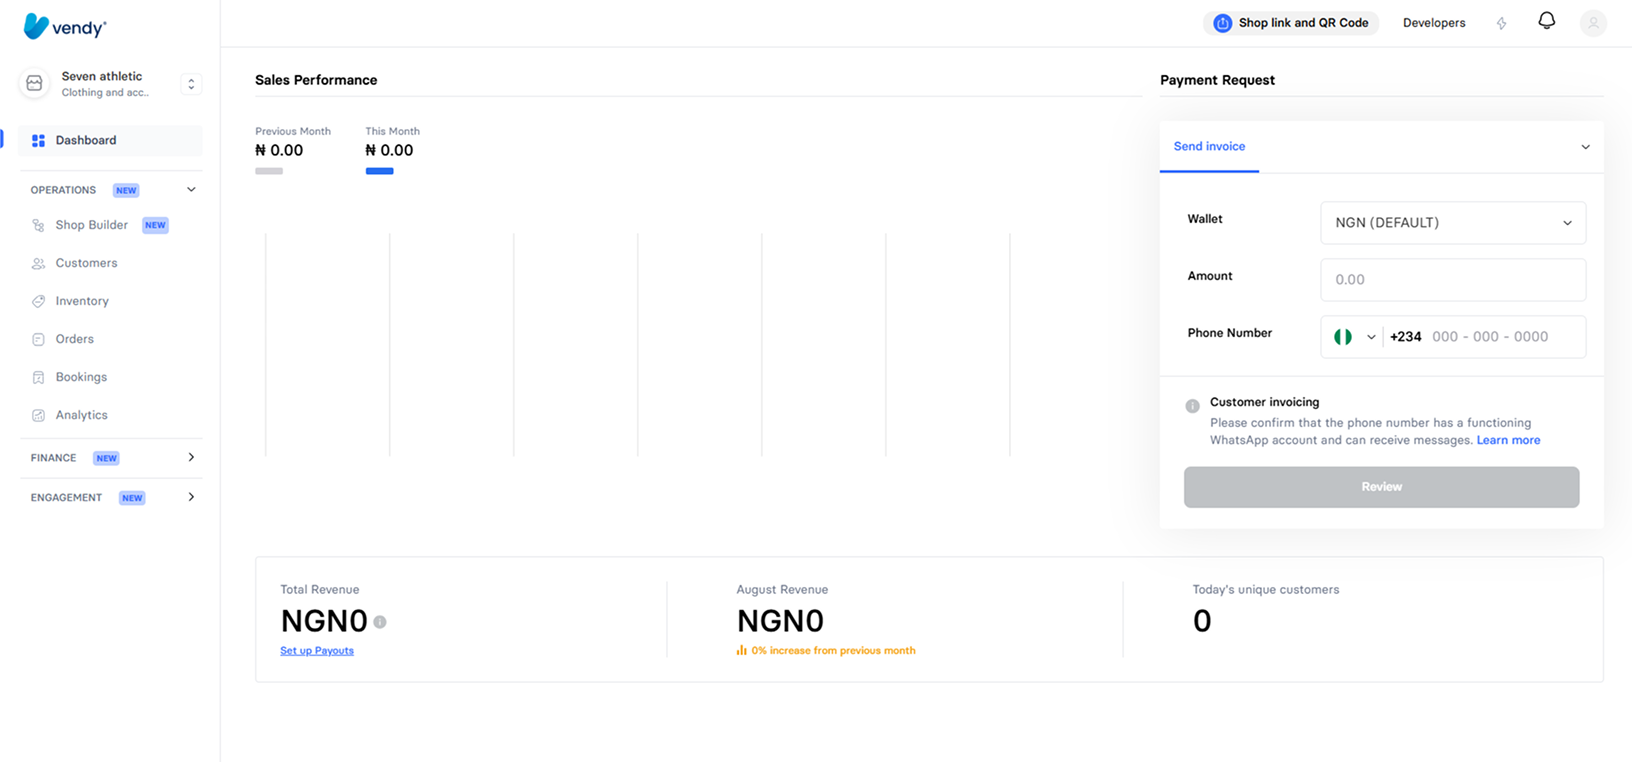
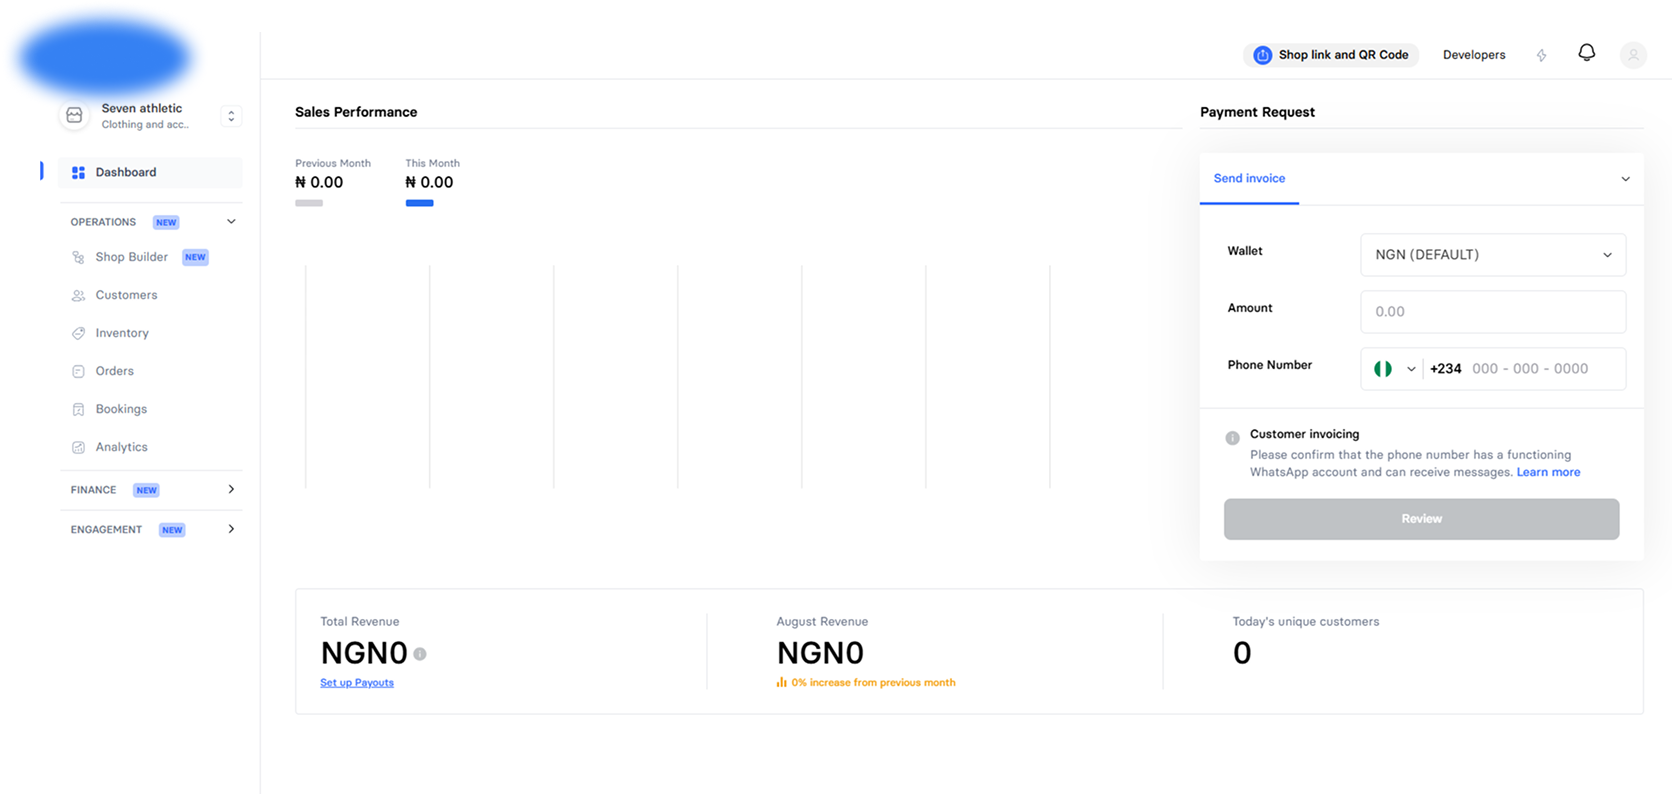
Add click-to-view lightbox and privacy disclaimer to auth audit
- All auth-audit images are clickable, opening in a subtle overlay with a
  close button; keyboard-accessible and Esc/backdrop to close
- Add note that the company logo is blurred in every screenshot for privacy
- Update replaced problem-empty-dashboard screenshot

diff --git a/src/components/Lightbox.tsx b/src/components/Lightbox.tsx
@@ -1,0 +1,78 @@
+"use client";
+
+import { useCallback, useEffect, useState } from "react";
+
+/**
+ * Click-to-view lightbox. Wraps a subtree and, via event delegation, opens any
+ * element marked with `data-zoom` (using the image inside it) in a subtle
+ * full-screen overlay with a cancel button top-right. Close with the ×, a click
+ * on the backdrop, or Escape.
+ */
+export default function Lightbox({ children }: { children: React.ReactNode }) {
+  const [active, setActive] = useState<{ src: string; alt: string } | null>(null);
+  const close = useCallback(() => setActive(null), []);
+
+  const activate = useCallback((e: React.MouseEvent | React.KeyboardEvent) => {
+    if ("key" in e && e.key !== "Enter" && e.key !== " ") return;
+    const trigger = (e.target as HTMLElement).closest("[data-zoom]");
+    if (!trigger) return;
+    const img = trigger.querySelector("img");
+    if (!img) return;
+    e.preventDefault();
+    setActive({ src: img.currentSrc || img.src, alt: img.alt });
+  }, []);
+
+  useEffect(() => {
+    if (!active) return;
+    const onKey = (e: KeyboardEvent) => {
+      if (e.key === "Escape") close();
+    };
+    document.addEventListener("keydown", onKey);
+    const prev = document.body.style.overflow;
+    document.body.style.overflow = "hidden";
+    return () => {
+      document.removeEventListener("keydown", onKey);
+      document.body.style.overflow = prev;
+    };
+  }, [active, close]);
+
+  return (
+    <div onClick={activate} onKeyDown={activate}>
+      {children}
+
+      {active && (
+        <div
+          role="dialog"
+          aria-modal="true"
+          aria-label={active.alt}
+          onClick={close}
+          className="fixed inset-0 z-50 flex items-center justify-center bg-black/70 p-4 backdrop-blur-sm sm:p-8"
+        >
+          <button
+            type="button"
+            aria-label="Close"
+            onClick={close}
+            className="fixed right-4 top-4 flex h-10 w-10 items-center justify-center rounded-full bg-white/10 text-white backdrop-blur transition-colors hover:bg-white/20"
+          >
+            <svg width="18" height="18" viewBox="0 0 24 24" fill="none" aria-hidden="true">
+              <path
+                d="M6 6l12 12M18 6L6 18"
+                stroke="currentColor"
+                strokeWidth="1.75"
+                strokeLinecap="round"
+              />
+            </svg>
+          </button>
+
+          {/* eslint-disable-next-line @next/next/no-img-element */}
+          <img
+            src={active.src}
+            alt={active.alt}
+            onClick={(e) => e.stopPropagation()}
+            className="max-h-[90vh] max-w-[92vw] rounded-[var(--radius)] object-contain shadow-2xl"
+          />
+        </div>
+      )}
+    </div>
+  );
+}

diff --git a/src/app/work/authentication-audit/page.tsx b/src/app/work/authentication-audit/page.tsx
@@ -2,6 +2,7 @@ import Link from "next/link";
 import type { Metadata } from "next";
 import { site } from "@/content/site";
 import FrameSlot from "@/components/FrameSlot";
+import Lightbox from "@/components/Lightbox";
 
 const DIR = "/images/authentication-audit";
 
@@ -187,6 +188,7 @@ function Msg({ label, text }: { label: string; text: string }) {
 
 export default function AuthenticationAuditPage() {
   return (
+    <Lightbox>
     <main id="main" className="mx-auto w-full max-w-[900px] px-6 pb-24 pt-8">
       {/* header / back nav */}
       <header className="flex items-baseline justify-between">
@@ -217,6 +219,30 @@ export default function AuthenticationAuditPage() {
           ratio="16 / 10"
         />
       </div>
+
+      {/* privacy disclaimer for the screenshots */}
+      <p className="mt-4 flex items-start gap-2 text-[13px] leading-snug text-[color:var(--muted)]">
+        <svg
+          width="15"
+          height="15"
+          viewBox="0 0 24 24"
+          fill="none"
+          className="mt-[0.15em] shrink-0"
+          aria-hidden="true"
+        >
+          <circle cx="12" cy="12" r="9" stroke="currentColor" strokeWidth="1.5" />
+          <path
+            d="M12 11v5M12 8h.01"
+            stroke="currentColor"
+            strokeWidth="1.5"
+            strokeLinecap="round"
+          />
+        </svg>
+        <span>
+          Note: the company&rsquo;s logo has been blurred out in every screenshot on this page
+          to protect its privacy.
+        </span>
+      </p>
 
       {/* metadata row */}
       <dl className="mt-10 grid grid-cols-2 gap-x-8 gap-y-6 border-t border-[color:var(--hairline)] pt-8 sm:grid-cols-4">
@@ -991,5 +1017,6 @@ export default function AuthenticationAuditPage() {
         </a>
       </footer>
     </main>
+    </Lightbox>
   );
 }

diff --git a/src/components/FrameSlot.tsx b/src/components/FrameSlot.tsx
@@ -25,7 +25,11 @@ export default function FrameSlot({
         // Fixed-ratio frame + object-contain: images fit the frame with no crop
         // and no distortion, and before/after pairs line up at equal height.
         <div
-          className="overflow-hidden rounded-[var(--radius)] border border-[color:var(--hairline)] bg-[#f2f2f2]"
+          data-zoom
+          role="button"
+          tabIndex={0}
+          aria-label={`View image: ${alt}`}
+          className="cursor-zoom-in overflow-hidden rounded-[var(--radius)] border border-[color:var(--hairline)] bg-[#f2f2f2] transition-opacity hover:opacity-95 focus-visible:outline focus-visible:outline-2 focus-visible:outline-[color:var(--ink)]"
           style={{ aspectRatio: ratio }}
         >
           {/* eslint-disable-next-line @next/next/no-img-element */}
